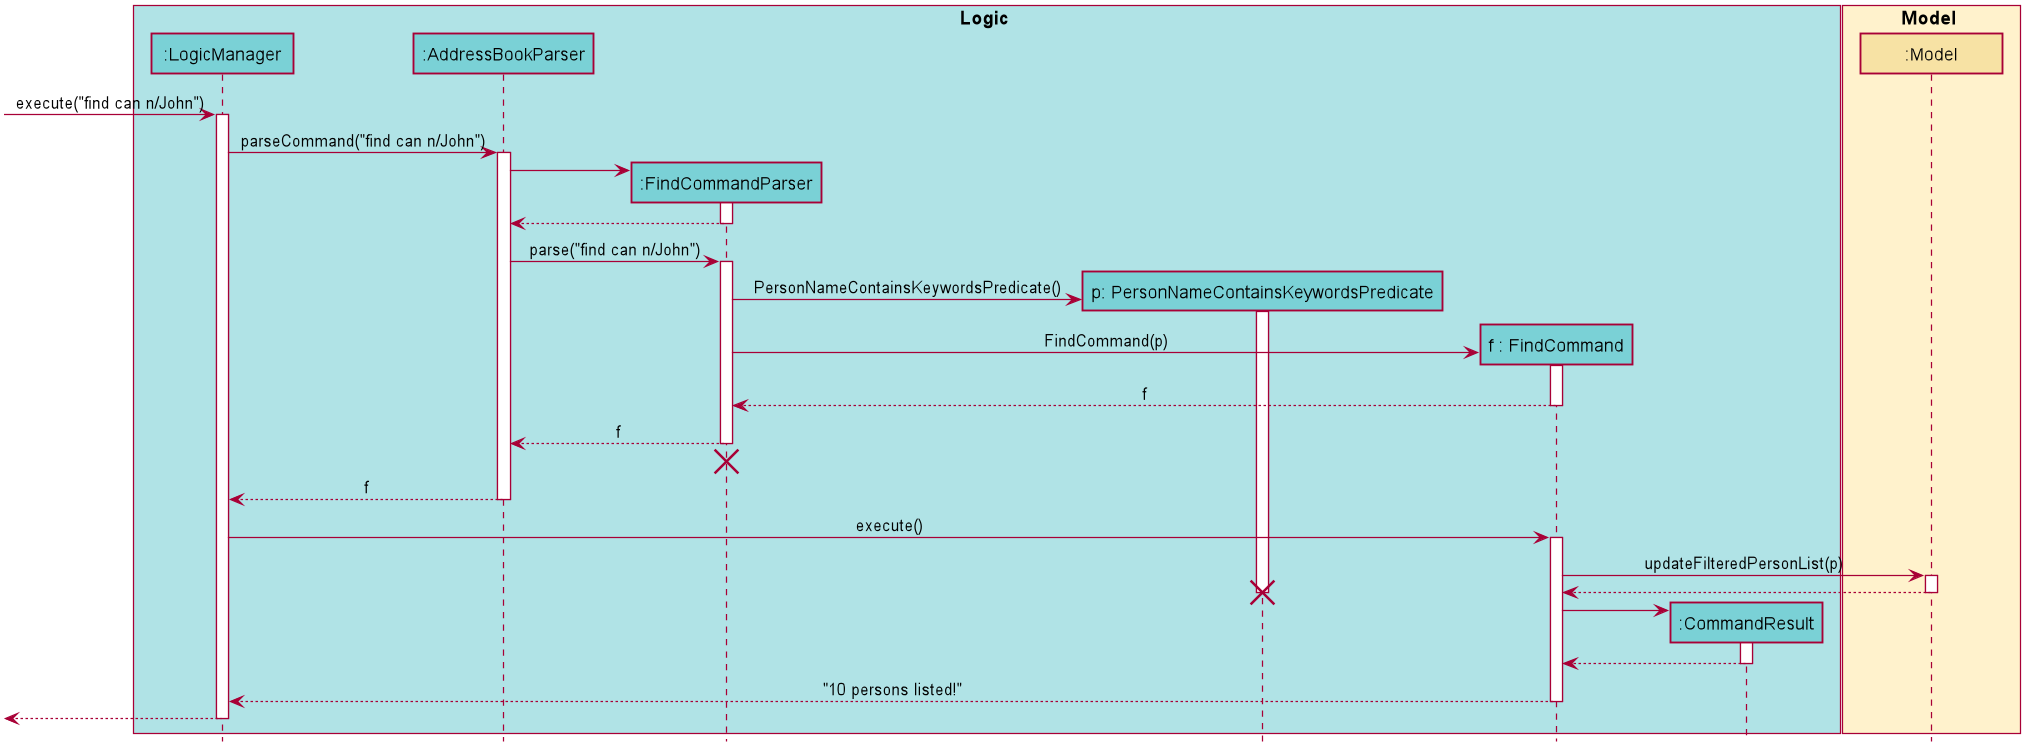
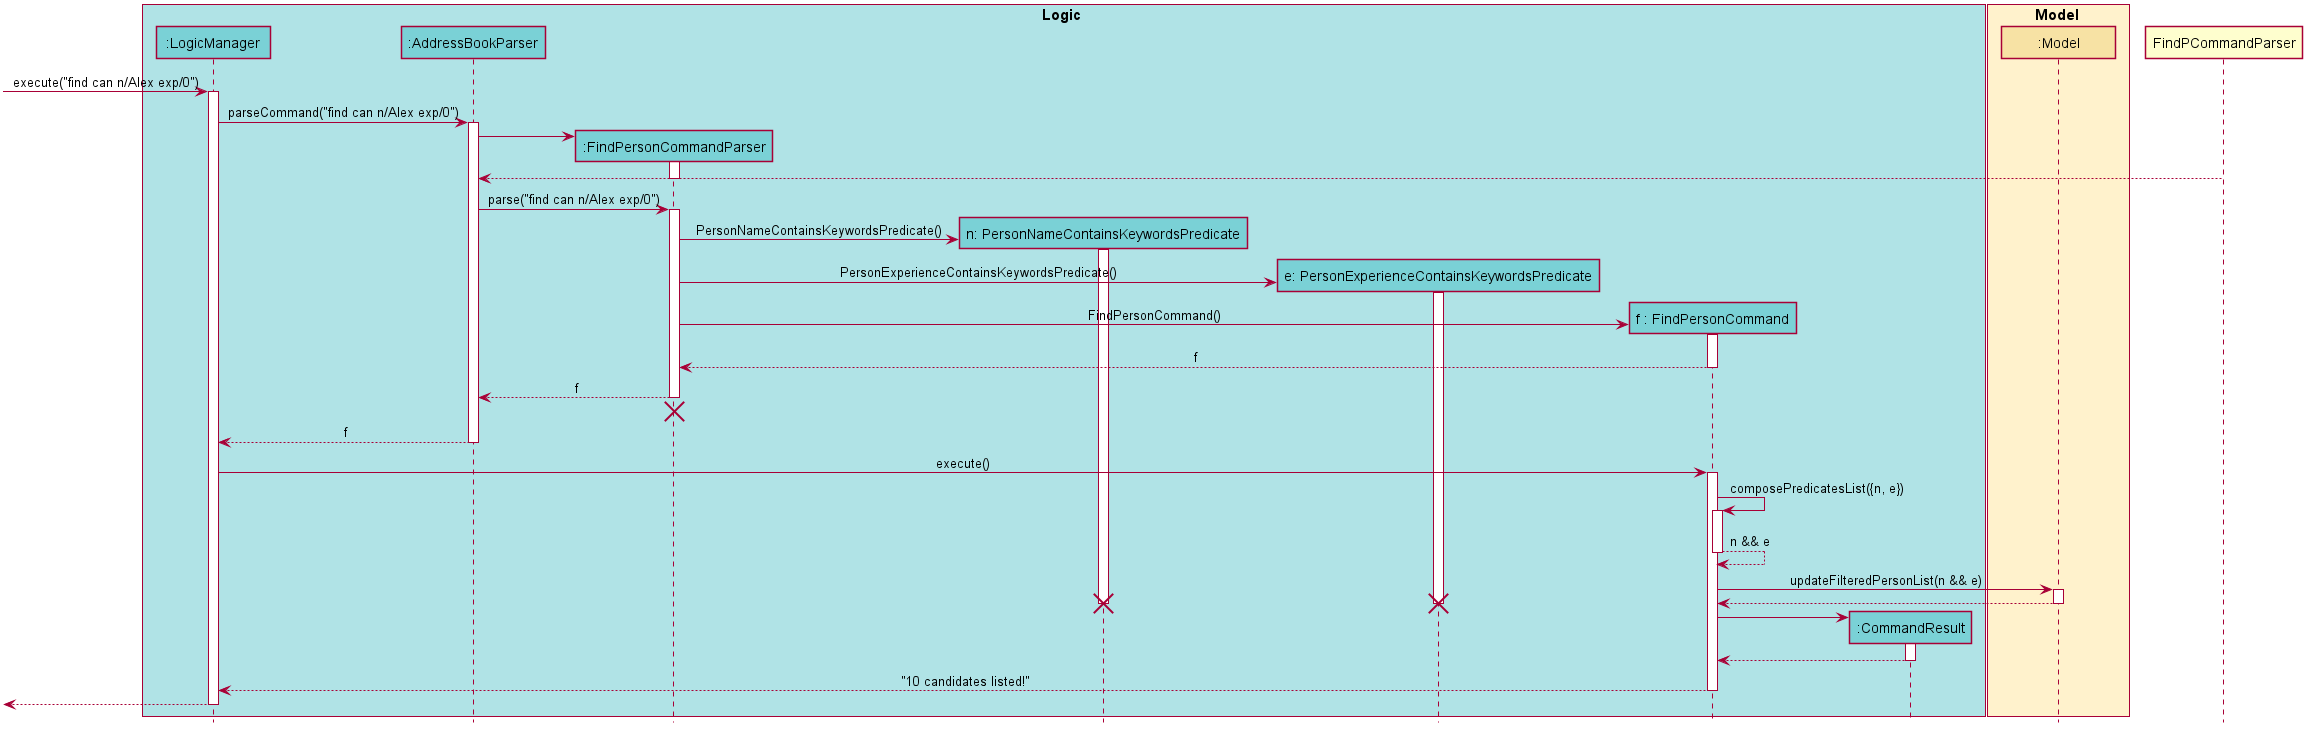
Update sequence diagram in DG

diff --git a/docs/DeveloperGuide.md b/docs/DeveloperGuide.md
@@ -224,9 +224,9 @@ as the job variant works analogously.
 The implemented edit mechanism is facilitated by `ModelManager`.  It implements `Model` and contains a `FilteredList`, which is a subclass of `ObservableList`. 
 Additionally, it implements the following operations:
 
-*`ModelManager#setPerson(Person target, Person editedPerson)` —  Replaces the Person target  with editedPerson.
+* `ModelManager#setPerson(Person target, Person editedPerson)` —  Replaces the Person target  with editedPerson.
 
-*`ModelManager#updateFilteredPersonList(Predicate<Person> predicate)` —  Updates the FilteredList of persons using the supplied predicate.
+* `ModelManager#updateFilteredPersonList(Predicate<Person> predicate)` —  Updates the FilteredList of persons using the supplied predicate.
 
 Given below is an example usage scenario and how the edit mechanism behaves at each step.
 
@@ -257,7 +257,7 @@ A `edit job` command works similarly for Jobs but with the analogous EditJobDesc
 The implemented list mechanism is facilitated by `ModelManager`. It implements `Model` and contains a `FilteredList`, which is a subclass of `ObservableList`.
 Additionally, it implements the following operations:
 
-*`ModelManager#updateFilteredJobList(Predicate<Job> predicate)` —  Updates the FilteredList of jobs using the supplied predicate.
+* `ModelManager#updateFilteredJobList(Predicate<Job> predicate)` —  Updates the FilteredList of jobs using the supplied predicate.
 
 Given below is an example usage scenario and how the list mechanism behaves at each step.
 
@@ -294,21 +294,25 @@ Step 3. A `PersonExperienceComparator` is created from parsing the command and a
 The implemented find mechanism is facilitated by `ModelManager`. It implements `Model` and contains a `FilteredList`, which is a subclass of `ObservableList`.
 Additionally, it implements the following operations:
 
-*`ModelManager#updateFilteredPersonList(Predicate<Person> predicate)` —  Updates the FilteredList of persons using the supplied predicate.
+* `ModelManager#updateFilteredPersonList(Predicate<Person> predicate)` —  Updates the FilteredList of persons using the supplied predicate.
 
 Given below is an example usage scenario and how the find mechanism behaves at each step.
 
 Step 1. The user launches the application for the first time. The `FilteredList` will be initialised with the `UniquePersonList` from `personAddressBook` which contains a list of candidates.
 
-Step 2. The user executes `find can n/John` to find candidates with the `Name` John.
+Step 2. The user executes `find can n/Alex exp/0` to find candidates with the `Name` Alex and `Experience` 5.
 
-Step 3. A `PersonNameContainsKeywordsPredicate`, which is a subclass of `Predicate` is created from parsing the command and a `FindCommand` object is created. In the `FindCommand#execute` the method `ModelManager#updateFilteredPersonList(PersonNameContainsKeywordsPredicate)` is invoked and the `FilteredList` is filtered using the `PersonNameContainsKeywordsPredicate`.
+Step 3. A `PersonNameContainsKeywordsPredicate` and `PersonExperienceContainsKeywordsPredicate` which are subclasses of `Predicate` are created from parsing the command and a `FindPersonCommand` object is created.
+
+Step 4. In the `FindPersonCommand#execute`, the method `composePredicatesList(List<Predicate<Person>> predicates)` is invoked to produce a `Predicate<Person>` that represents a short-circuiting logical AND of all predicates in the list.
+`ModelManager#updateFilteredPersonList(Predicate<Person>)` is invoked and the `FilteredList` is filtered using the `Predicate<Person>` returned by the method `composePredicatesList`.
 
 The following sequence diagram shows how the find operation works in the scenario described above:
 
 ![FindSequenceDiagram](images/FindSequenceDiagram.png)
 
-The find operation is subjected to improvements to be implemented in v1.3 where we will allow users to find candidates or jobs using other fields like address, tags, vacancy, etc.
+The above only demonstrates finding candidates by their `Name` and `Experience`.
+The find operation also supports finding candidates via other fields such as `Email` and `Vacancy`.
 
 ## Proposed Features
 
